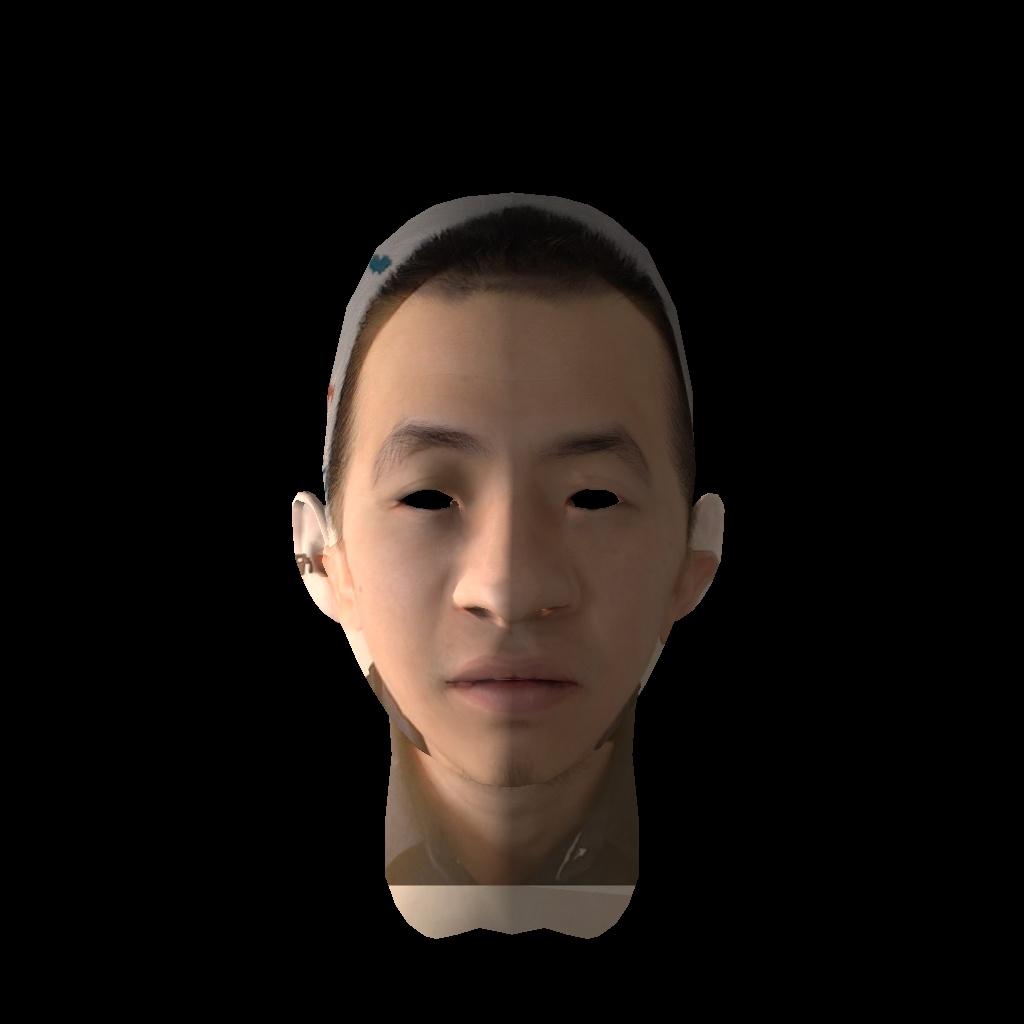
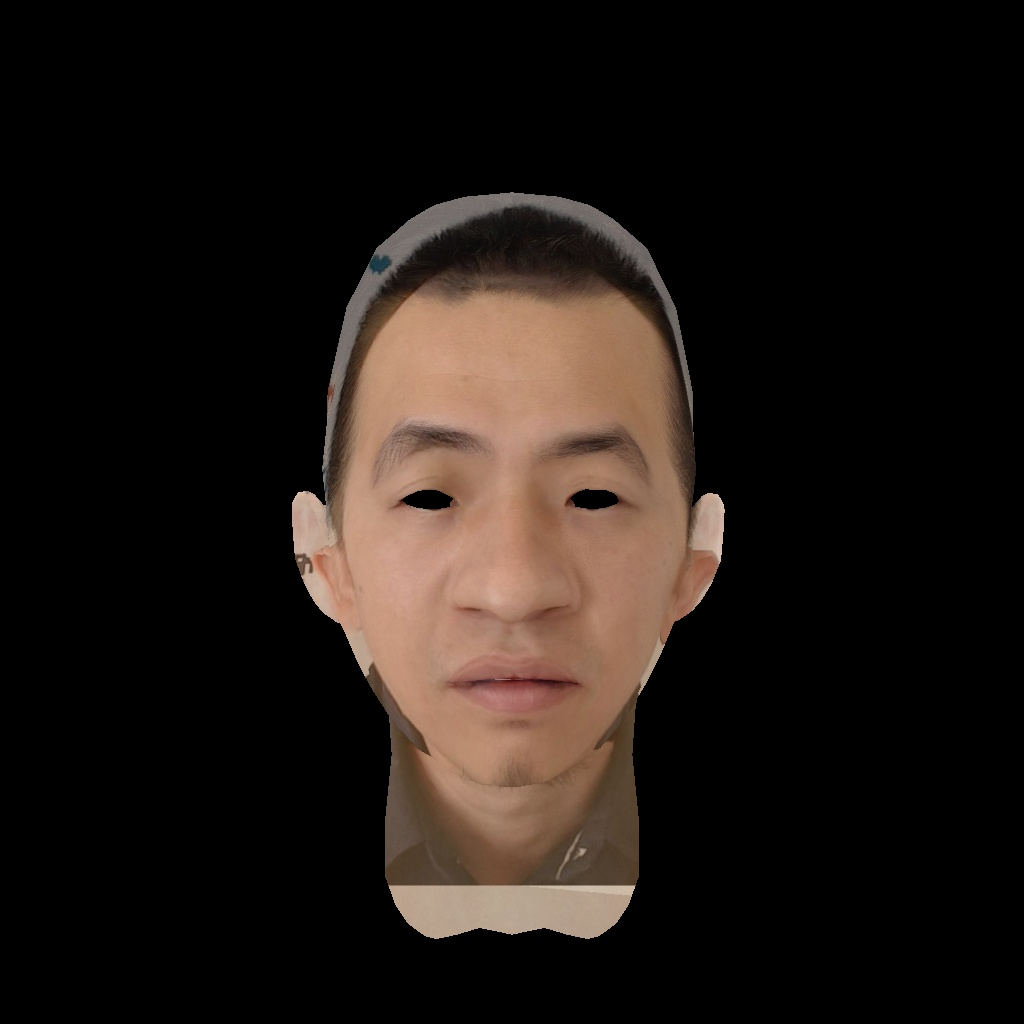
unlit skin shader

Changed region(s): [[0.2812, 0.1875, 0.7188, 0.9375]]

diff --git a/nativeproj/facecloud/facecloud/Shared/UnlitSkinningTechnique.cpp b/nativeproj/facecloud/facecloud/Shared/UnlitSkinningTechnique.cpp
@@ -1,0 +1,96 @@
+/*
+
+Copyright 2011 Etay Meiri
+
+This program is free software: you can redistribute it and/or modify
+it under the terms of the GNU General Public License as published by
+the Free Software Foundation, either version 3 of the License, or
+(at your option) any later version.
+
+This program is distributed in the hope that it will be useful,
+but WITHOUT ANY WARRANTY; without even the implied warranty of
+MERCHANTABILITY or FITNESS FOR A PARTICULAR PURPOSE.  See the
+GNU General Public License for more details.
+
+You should have received a copy of the GNU General Public License
+along with this program.  If not, see <http://www.gnu.org/licenses/>.
+*/
+
+#include <limits.h>
+#include <string>
+
+
+#include "UnlitSkinningTechnique.h"
+#include "ogldev_util.h"
+
+using namespace std;
+
+UnlitSkinningTechnique::UnlitSkinningTechnique()
+{
+}
+
+
+bool UnlitSkinningTechnique::Init()
+{
+	if (!Technique::Init()) {
+		return false;
+	}
+
+	if (!AddShader(GL_VERTEX_SHADER, "data/shader/skinningunlit.vs")) {
+		return false;
+	}
+
+	if (!AddShader(GL_FRAGMENT_SHADER, "data/shader/skinningunlit.fs")) {
+		return false;
+	}
+
+	if (!Finalize()) {
+		return false;
+	}
+
+	m_WVPLocation = GetUniformLocation("gWVP");
+	m_colorTextureLocation = GetUniformLocation("gColorMap");
+
+
+	m_detailTextureLocation = GetUniformLocation("gDetailMap");
+
+	if (m_WVPLocation == INVALID_UNIFORM_LOCATION ||
+		m_colorTextureLocation == INVALID_UNIFORM_LOCATION) {
+		return false;
+	}
+
+
+	for (unsigned int i = 0; i < ARRAY_SIZE_IN_ELEMENTS(m_boneLocation); i++) {
+		char Name[128];
+		memset(Name, 0, sizeof(Name));
+		SNPRINTF(Name, sizeof(Name), "gBones[%d]", i);
+		m_boneLocation[i] = GetUniformLocation(Name);
+	}
+
+	return true;
+}
+
+void UnlitSkinningTechnique::SetWVP(const Matrix4f& WVP)
+{
+	glUniformMatrix4fv(m_WVPLocation, 1, GL_TRUE, (const GLfloat*)WVP);
+}
+
+
+void UnlitSkinningTechnique::SetColorTextureUnit(unsigned int TextureUnit)
+{
+	glUniform1i(m_colorTextureLocation, TextureUnit);
+}
+void UnlitSkinningTechnique::SetDetailTextureUnit(unsigned int TextureUnit)
+{
+	glUniform1i(m_detailTextureLocation, TextureUnit);
+}
+
+
+
+
+void UnlitSkinningTechnique::SetBoneTransform(uint Index, const Matrix4f& Transform)
+{
+	assert(Index < MAX_BONES);
+	//Transform.Print();
+	glUniformMatrix4fv(m_boneLocation[Index], 1, GL_TRUE, (const GLfloat*)Transform);
+}

diff --git a/nativeproj/facecloud/facecloud/Shared/FaceCloudLib.cpp b/nativeproj/facecloud/facecloud/Shared/FaceCloudLib.cpp
@@ -182,22 +182,14 @@ bool FaceCloudLib::InitCamera()
 
 	m_pGameCamera = new Camera(m_Width, m_Height, Pos, Target, Up);
 
-	DirectionalLight directionalLight;
-	directionalLight.Color = Vector3f(1.0f, 1.0f, 1.0f);
-	directionalLight.AmbientIntensity = 0.55f;
-	directionalLight.DiffuseIntensity = 0.9f;
-	directionalLight.Direction = Vector3f(1.0f, 0.0, 0.0);
-	m_pSkinningRenderer = new SkinningTechnique(); 
+	m_pSkinningRenderer = new UnlitSkinningTechnique(); 
 	if (!m_pSkinningRenderer->Init()) {
-		printf("Error initializing the SkinningTechnique\n");
+		printf("Error initializing the UnlitSkinningTechnique\n");
 		return false;
 	}
 	m_pSkinningRenderer->Enable();
 	m_pSkinningRenderer->SetColorTextureUnit(COLOR_TEXTURE_UNIT_INDEX);
 	m_pSkinningRenderer->SetDetailTextureUnit(COLOR_TEXTURE_UNIT_INDEX + 1);
-	m_pSkinningRenderer->SetDirectionalLight(directionalLight);
-	m_pSkinningRenderer->SetMatSpecularIntensity(0.0f);
-	m_pSkinningRenderer->SetMatSpecularPower(0);
 
 	m_pCommonRenderer = new CommonTechnique();
 	if (!m_pCommonRenderer->Init()) {
@@ -322,9 +314,7 @@ bool FaceCloudLib::DrawOnce(string modelID)
 	//p.SetPerspectiveProj(m_persProjInfo);
 	m_pSkinningRenderer->Enable();
 
-	m_pSkinningRenderer->SetEyeWorldPos(m_pGameCamera->GetPos());
 	m_pSkinningRenderer->SetWVP(p.GetWVOrthoPTrans());
-	m_pSkinningRenderer->SetWorldMatrix(p.GetWorldTrans());
 
 
 	if (m_MeshMap.find(modelID) != m_MeshMap.end())

diff --git a/nativeproj/facecloud/facecloud/Shared/UnlitSkinningTechnique.h b/nativeproj/facecloud/facecloud/Shared/UnlitSkinningTechnique.h
@@ -1,0 +1,31 @@
+#pragma once
+#ifndef UNLIT_SKINNING_TECHNIQUE_H
+#define	UNLIT_SKINNING_TECHNIQUE_H
+
+#include "technique.h"
+#include "ogldev_math_3d.h"
+class UnlitSkinningTechnique : public Technique {
+public:
+
+	static const uint MAX_POINT_LIGHTS = 2;
+	static const uint MAX_SPOT_LIGHTS = 2;
+	static const uint MAX_BONES = 254;
+
+	UnlitSkinningTechnique();
+
+	virtual bool Init();
+
+	void SetWVP(const Matrix4f& WVP);
+	void SetColorTextureUnit(uint TextureUnit);
+	void SetBoneTransform(uint Index, const Matrix4f& Transform);
+	void SetDetailTextureUnit(uint TextureUnit);
+private:
+
+	GLuint m_WVPLocation;
+	GLuint m_colorTextureLocation;
+	GLuint m_detailTextureLocation;
+	GLuint m_boneLocation[MAX_BONES];
+};
+
+
+#endif	/* UNLIT_SKINNING_TECHNIQUE_H */

diff --git a/nativeproj/facecloud/facecloud/Shared/FaceCloudLib.h b/nativeproj/facecloud/facecloud/Shared/FaceCloudLib.h
@@ -12,8 +12,9 @@
 #include "ogldev_pipeline.h"
 #include "ogldev_camera.h"
 #include "texture.h"
-#include "SkinningTechnique.h"
 #include "CommonTechnique.h"
+#include "SkinningTechnique.h"
+#include "UnlitSkinningTechnique.h"
 #include "RenderTextureTechnique.h"
 #include "ogldev_glut_backend.h"
 #include "ogldev_skinned_mesh.h"
@@ -36,7 +37,7 @@ private:
 	Camera * m_pGameCamera;
 	PersProjInfo m_persProjInfo;
 	OrthoProjInfo m_orthoProjInfo;
-	SkinningTechnique * m_pSkinningRenderer;
+	UnlitSkinningTechnique * m_pSkinningRenderer;
 	CommonTechnique * m_pCommonRenderer;
 
 

diff --git a/nativeproj/facecloud/facecloud/Windows/WindowsApp/LibCaller.cpp b/nativeproj/facecloud/facecloud/Windows/WindowsApp/LibCaller.cpp
@@ -94,7 +94,11 @@ int main(int argc, char** argv)
 {
 
 
-	lib.Init();
+	if (!lib.Init())
+	{
+		printf("Face Cloud Lib Init Failed");
+		return -1;
+	}
 
 	string outJsonModelOut = "";
 	string outPhotoPath = "data/export/outphoto.jpg";
